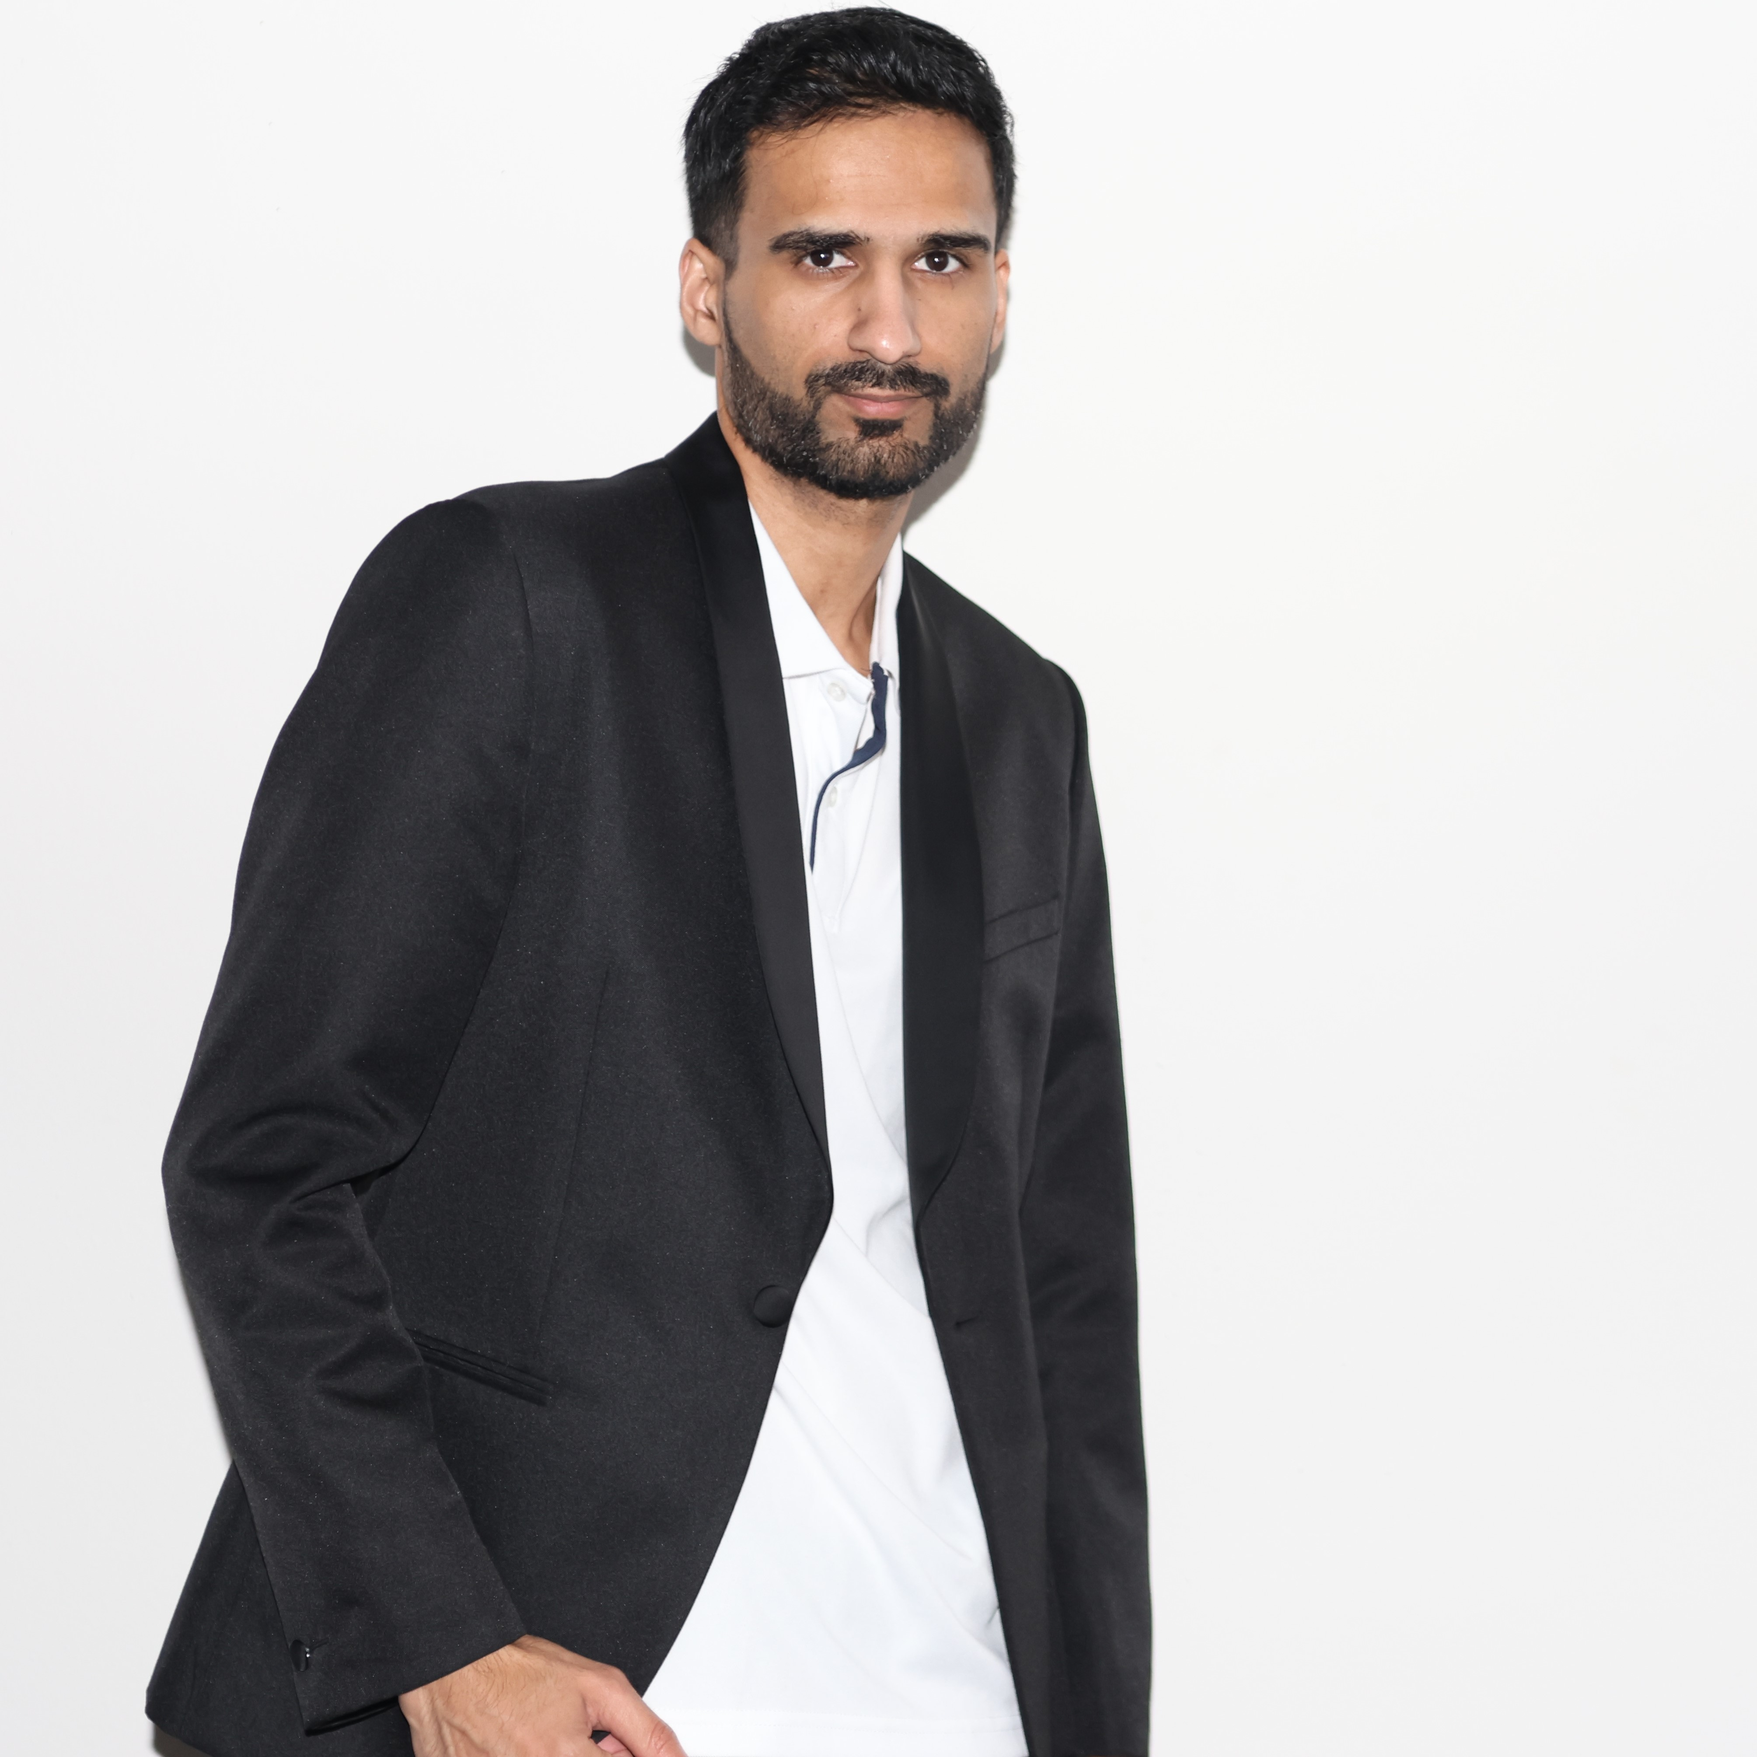
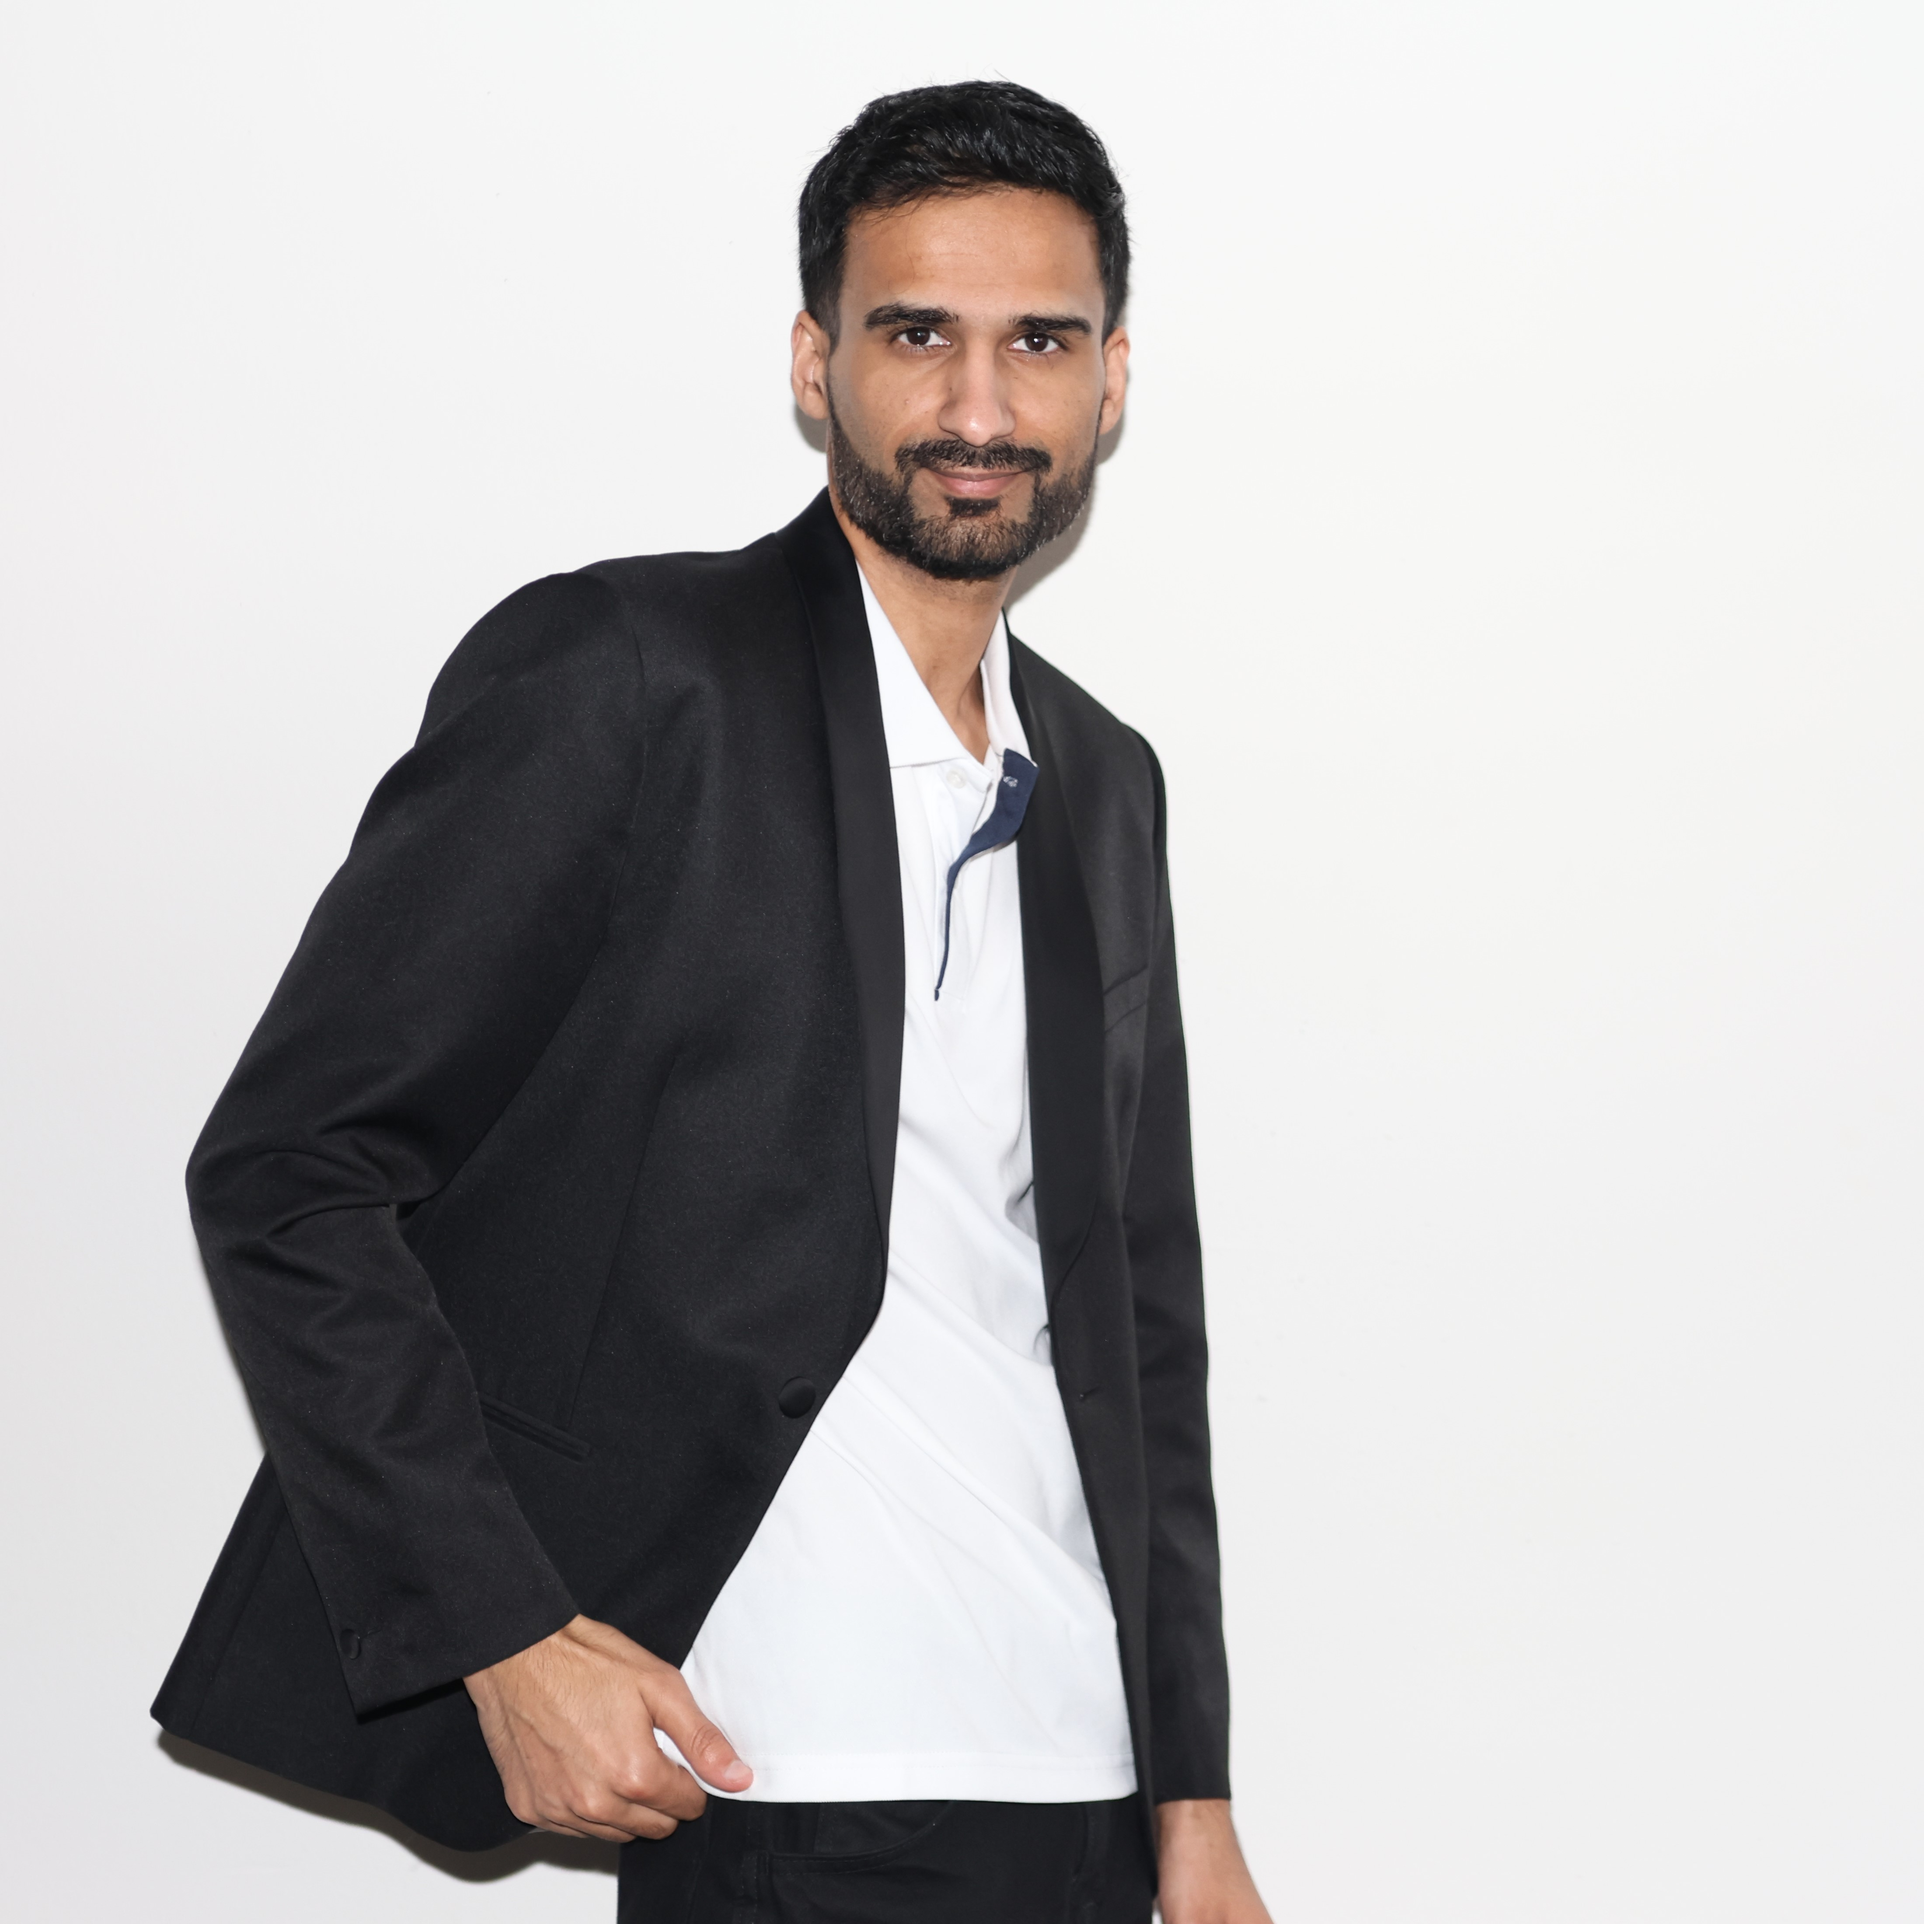
add

diff --git a/index.html b/index.html
@@ -248,7 +248,7 @@
 
   <div class="main-photo-container" role="img" aria-label="Main Groom Photo" tabindex="0" data-bs-toggle="modal" data-bs-target="#photoModal">
     <img
-      src="pics/9E0A8842.JPG"
+      src="pics/c6b7ffbb-e6b6-4e1b-a1c4-a42f1f58b202.jpg"
       alt="Main Groom Photo"
       class="main-photo"
       id="mainPhoto"
@@ -288,6 +288,7 @@
         <div class="modal-body">
           <img src="pics/9E0A8872.JPG" alt="Photo 2" />
           <img src="pics/9E0A8817.JPG" alt="Photo 3" />
+          <img src="pics/9E0A8842.JPG"/>
           <img src="pics/c6b7ffbb-e6b6-4e1b-a1c4-a42f1f58b202.jpg"/>
           <img src="pics/e5d43321ac2bbdf66fa7f3bf67d0ffe5bc645a34-1.jpg" alt="Photo 4" />
         </div>
